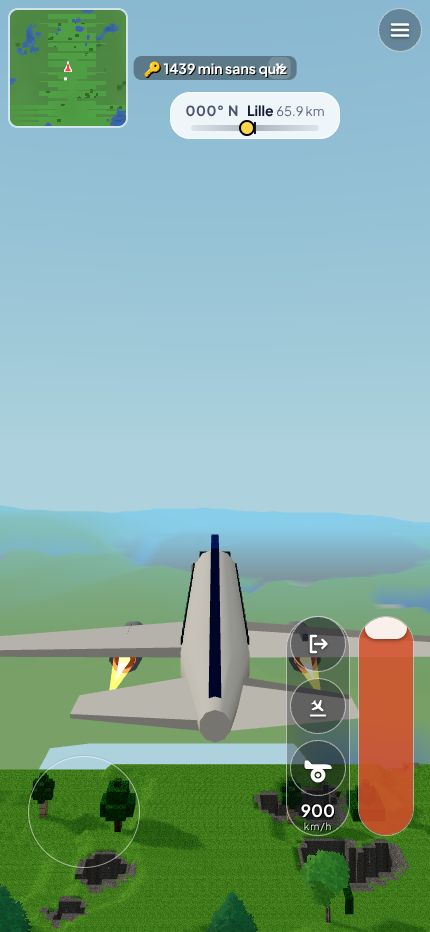
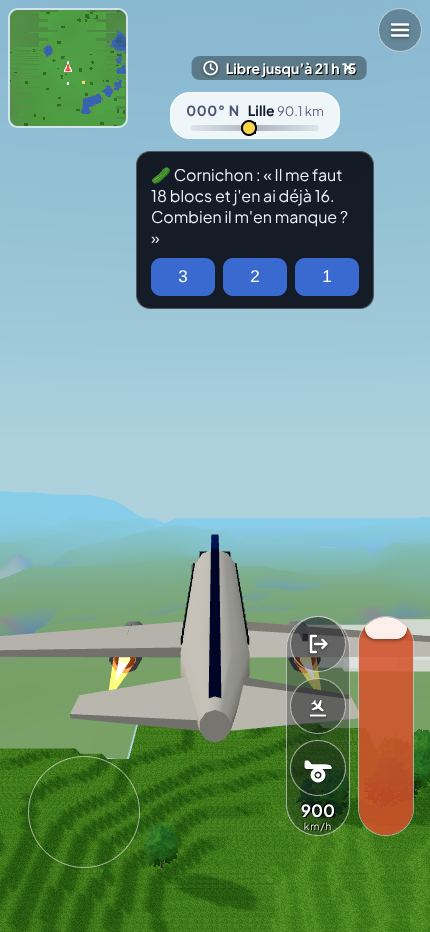
v533 — la croix du badge ne barre plus l'heure sur téléphone ; revue d'écran à 420 × 760
Claude-Session: https://claude.ai/code/session_01BDZrunvpttsJ4g2H6emHVS

diff --git a/tests/carte.js b/tests/carte.js
@@ -2296,7 +2296,7 @@ const position = (p) => p.evaluate(() => ({
       JSON.stringify(couche.erreurs));
     await couche.close();
 
-    // LA MINICARTE EST TOUJOURS LÀ (v530). Max : « il faut trouver une
+    // LA MINICARTE EST TOUJOURS LÀ (v533). Max : « il faut trouver une
     // solution pour mettre la mini-carte toujours visible. » Elle ne
     // s'affichait qu'après un appui sur son bouton. Le témoin entre en jeu
     // SANS UN GESTE, puis la lit dans chaque mode — à pied, en construction,
@@ -2319,6 +2319,11 @@ const position = (p) => p.evaluate(() => ({
             : { x: Math.round(b.left), y: Math.round(b.top), w: Math.round(b.width), h: Math.round(b.height) }; };
         // l'état d'entrée, AVANT tout geste du témoin
         const entree = vis(mm);
+        // LA CROIX DU BADGE NE BARRE PAS SON TEXTE (v533, vu en revue d'écran :
+        // « 21 h 1✕ ») : sur téléphone, `padding: 3px 10px` écrasait la place
+        // réservée à la croix. On lit les deux boîtes, et l'écart entre elles.
+        const txtB = vis(document.getElementById('edu-timer-txt')), crxB = vis(document.getElementById('edu-timer-close'));
+        const badge = txtB && crxB ? { txt: txtB, croix: crxB, mord: txtB.x + txtB.w - crxB.x - 10 } : null;
         const HUD = ['menu-btn', 'map-btn', 'edu-timer', 'gps', 'cap-avion', 'fun-target', 'construction-pill', 'construction-fin',
           'hotbar', 'jump-btn', 'fly-btn', 'down-btn', 'construire-btn', 'poser-btn', 'casser-btn', 'ride-btn', 'train-btn',
           'gaz-base', 'gaz-val', 'cmd-vol', 'joy-repos', 'link-banner', 'gps-ami', 'manhattan-adresse'];
@@ -2401,12 +2406,14 @@ const position = (p) => p.evaluate(() => ({
         // pendant un quiz (invariant 2), elle se cache, et revient après
         g.edu.startQuiz(); await att(600);
         const quiz = { actif: !!g.edu.quizActive, cachee: !vis(mm) };
-        return { saut, entree, modes, sousMenu, carte, quiz, bouton: !!vis(document.getElementById('map-btn')), vue: [innerWidth, innerHeight] };
+        return { saut, badge, entree, modes, sousMenu, carte, quiz, bouton: !!vis(document.getElementById('map-btn')), vue: [innerWidth, innerHeight] };
       });
       await mc.close();
       const T = `minicarte (${vue.width} × ${vue.height})`;
       verifier(`${T} : visible dès l'entrée en jeu, sans un geste, et son ancien bouton n'est plus à l'écran`,
         !r.err && !!r.entree && !r.bouton, JSON.stringify({ entree: r.entree, bouton: r.bouton }));
+      verifier(`${T} : la croix du badge du temps libre ne barre pas son texte`,
+        !r.err && !!r.badge && r.badge.mord <= 0, JSON.stringify(r.badge));
       const fautes = (r.modes || []).filter((m) => !m.b || m.dessus.length || m.recouvre.length || m.joy || m.horsCanvas.length || m.pris === false);
       verifier(`${T} : à pied, en construction, au volant et en avion — visible, rien par-dessus, elle ne recouvre rien, et le quart du joystick reste au canvas`,
         !r.err && (r.modes || []).length === 4 && fautes.length === 0, JSON.stringify(fautes.length ? fautes : r.modes));

diff --git a/index.html b/index.html
@@ -1571,7 +1571,7 @@
       }
       #left-rail { top: calc(8px + var(--safe-top)); }
       :root { --minimap-w: 120px; }
-      #edu-timer { top: calc(56px + var(--safe-top)); font-size: 14px; padding: 3px 10px; }
+      #edu-timer { top: calc(56px + var(--safe-top)); font-size: 14px; padding: 3px 40px 3px 10px; /* la croix (v522) garde sa place, v533 */ }
       #cap-avion { top: calc(92px + var(--safe-top)); min-width: 170px; padding: 4px 10px 6px; }
       #cap-ville { font-size: 15px; }
       #quiz-card { padding: 16px 14px; max-height: 88vh; overflow-y: auto; }

diff --git a/src/nouveautes.js b/src/nouveautes.js
@@ -11,6 +11,7 @@ export const NOUVEAUTES = [
     puces: [
       'La minicarte s\'affiche toute seule',
       'La toucher ouvre la carte du monde',
+      "La croix ne cache plus l'heure",
     ],
   },
   {

diff --git a/CHANGELOG.md b/CHANGELOG.md
@@ -37,6 +37,9 @@ qu'un enfant de sept ans n'a aucune raison de chercher.
   que les bandes qui repassent remettent au propre ; un point que le jeu
   repeindrait à l'identique est sauté. Après une téléportation, le fond de nuit
   se repeint en quelques secondes. `?minicarte=0` la coupe, pour mesurer.
+- Le badge « Libre jusqu'à … » se centre à droite de la minicarte, et sur
+  téléphone sa croix ne barre plus l'heure (« 21 h 1✕ », vu en revue d'écran,
+  là depuis la v522).
 
 **Ce qui le prouve.**
 - `sonde-minicarte-cout.cjs` (chasseur pleins gaz, rr 12, iPhone, ordre
@@ -46,7 +49,12 @@ qu'un enfant de sept ans n'a aucune raison de chercher.
   sans geste ; dans les quatre modes rien par-dessus, aucun recouvrement du HUD,
   le quart du joystick reste au canvas ; voilée sous le menu ; la toucher ouvre
   la carte du monde, où elle se cache puis revient ; un quiz la cache ; après
-  un saut de 4 000 blocs, le fond de nuit retombe sous un cinquième des points.
+  un saut de 4 000 blocs, le fond de nuit retombe sous un cinquième des points ;
+  la croix du badge ne mord pas son texte (rouge sans la correction : 21 px).
+- Revue d'écran (`docs/revue-ecran/v533`) à 430 × 932, 420 × 760 et
+  820 × 1180, de jour et de nuit.
+- Portail : les rouges de `degats.js` et `monte.js` sont rejoués des deux côtés
+  ou déjà déclarés (`TASKS.md`).
 - Témoins repointés : `monte.js` (en tête de la colonne), `maj.js`,
   `reseau.js`, `banc.ouvrirLaCarte`, `sonde-revue-ecran.cjs`.
 

diff --git a/CLAUDE.md b/CLAUDE.md
@@ -1287,6 +1287,9 @@ Max : « mettre la mini-carte toujours visible ». Trois règles.
   430 px de large : il se centre sur l'espace à sa droite
   (`(100vw + --rail-x + --minimap-w) / 2`). Un élément neuf posé en haut au
   milieu entre dans la liste du témoin de `carte.js`, ou il rougit.
+  Et sur téléphone, une règle de `padding` en raccourci écrasait la place de
+  sa croix (« 21 h 1✕ ») : un élément qui réserve une place à un bouton se
+  relit dans les `@media` qui réécrivent son `padding`.
 
 ## ✈ se pose devant (v502) — une approche assistée va là où le nez pointe
 
